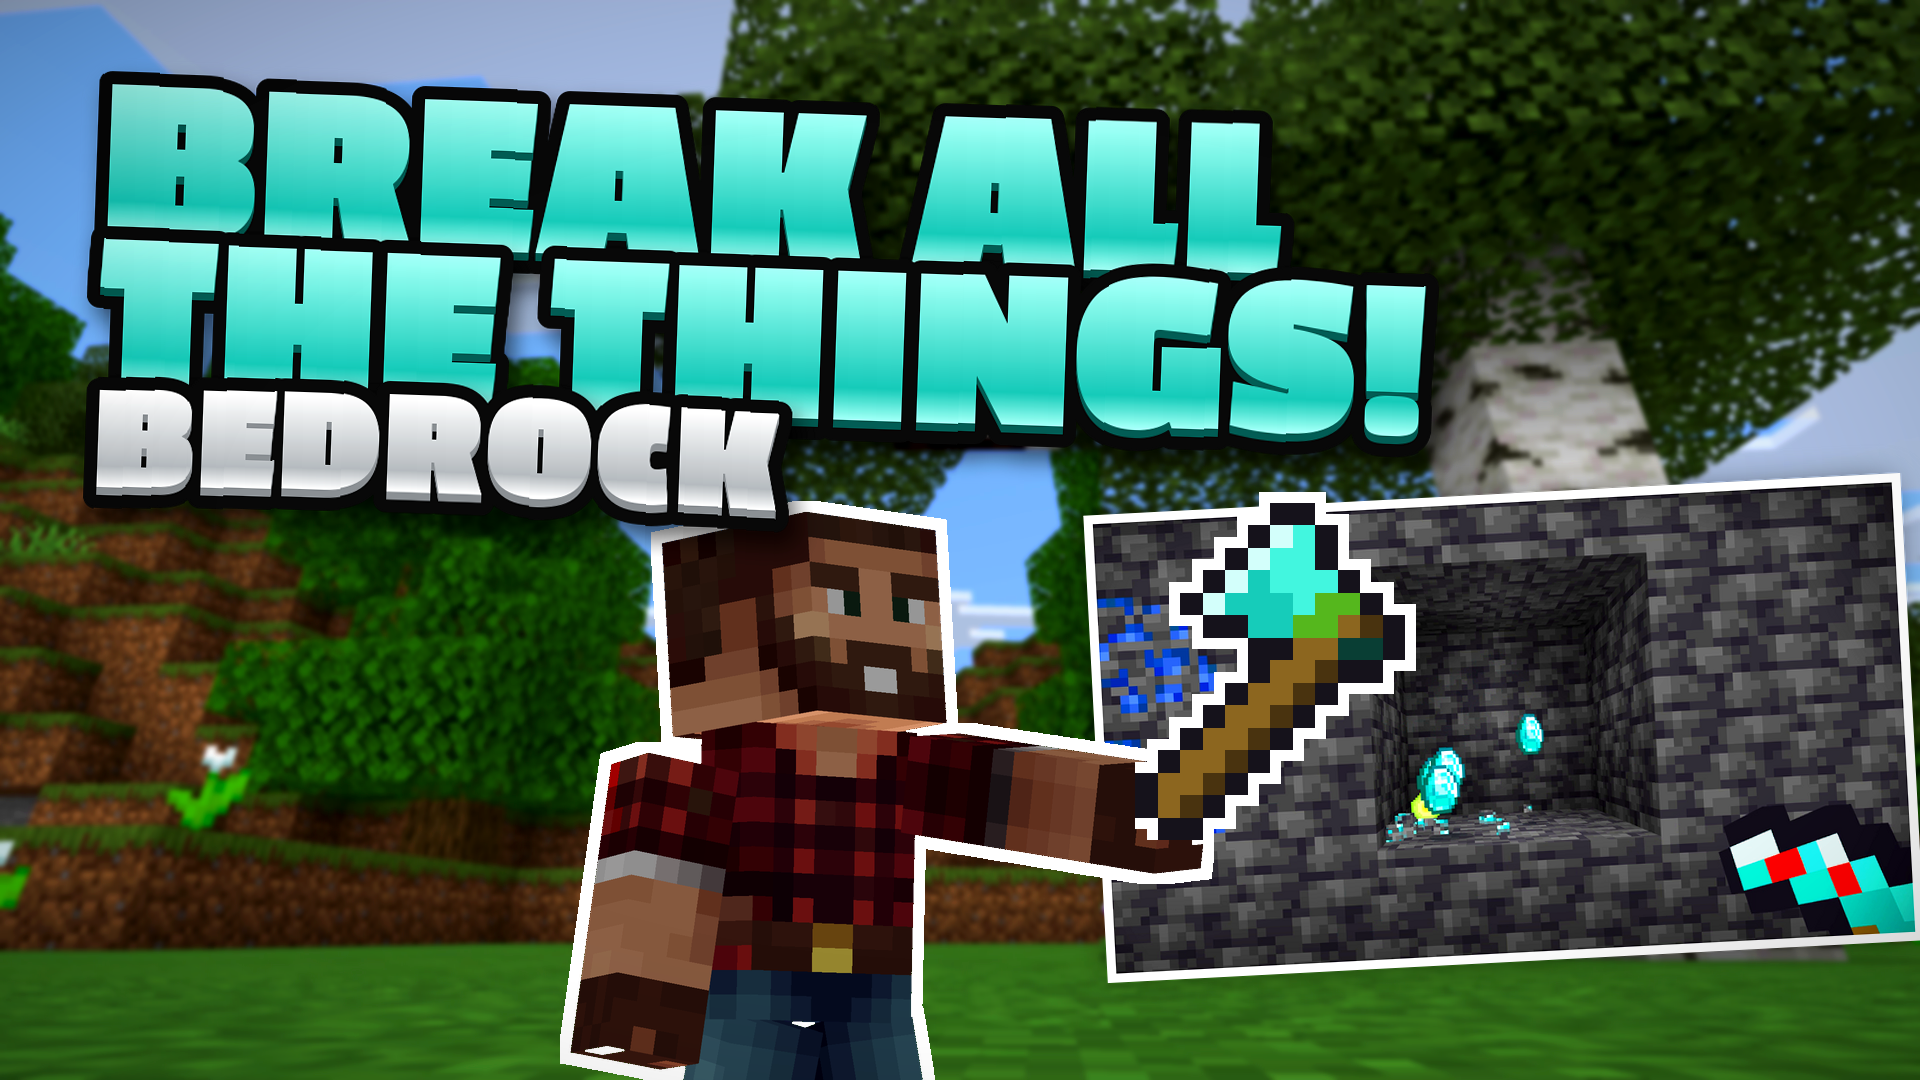
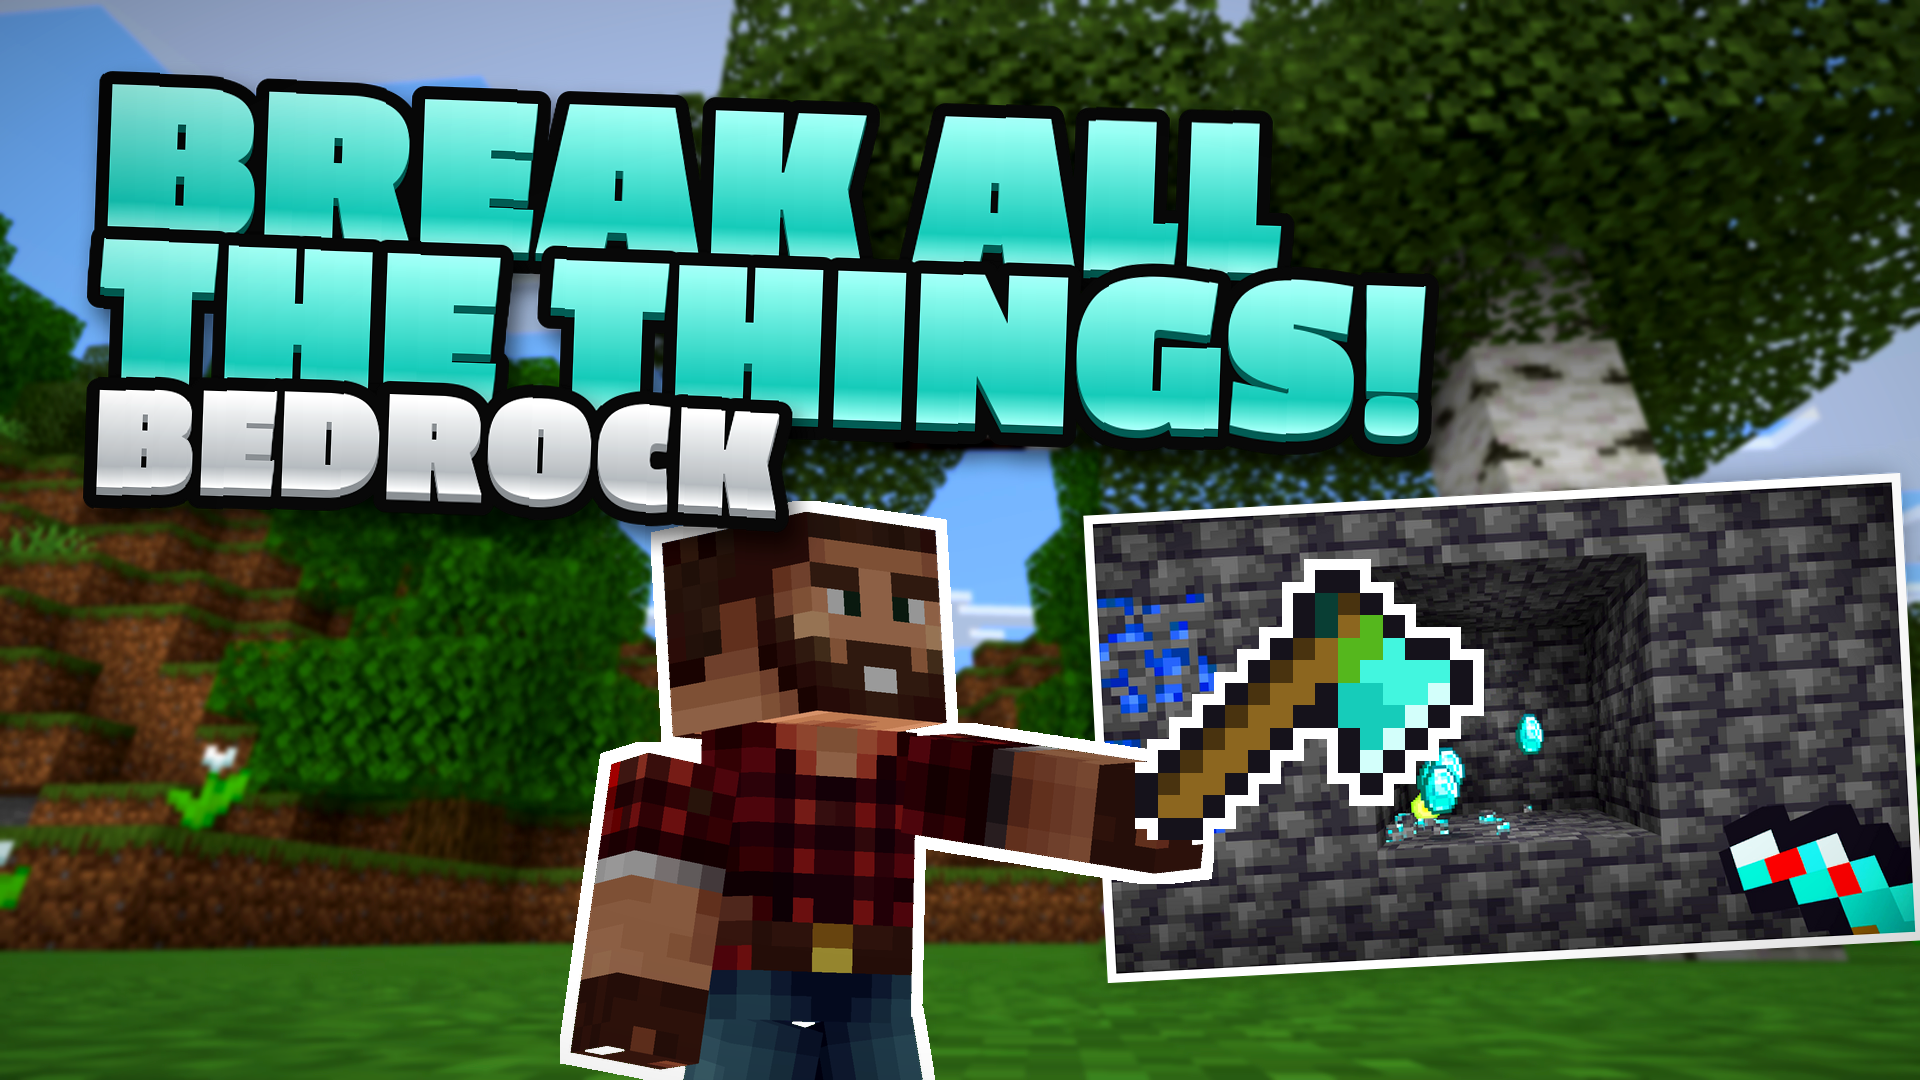
Turn the thumbnail's axe so the blade faces forward

Changed region(s): [[0.5938, 0.4583, 0.7812, 0.7639]]

diff --git a/tools/make_thumbnail.py b/tools/make_thumbnail.py
@@ -242,7 +242,8 @@ def build():
     a = np.asarray(char.split()[3])
     ys, xs = np.nonzero(a > 0)
     hand = (char_pos[0] + int(xs.max()), char_pos[1] + int(ys[xs == xs.max()].mean()))
-    axe = Image.open(AXE).convert("RGBA").resize((360, 360), Image.NEAREST)
+    # reflected across the handle, so the handle stays bottom left to top right and the blade faces forward
+    axe = Image.open(AXE).convert("RGBA").transpose(Image.Transpose.TRANSVERSE).resize((360, 360), Image.NEAREST)
     axe = _card_outline(axe, 11)
     canvas.alpha_composite(axe, (hand[0] + AXE_AT[0], hand[1] - axe.height + AXE_AT[1]))
 
